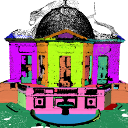
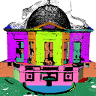
update image sizes

diff --git a/_includes/archive-single-pub.html b/_includes/archive-single-pub.html
@@ -23,7 +23,7 @@
 
       {% if post.teaser %}
           <div class="archive__column_image">
-          <img src="{{ post.teaser | prepend: "/images/" }}" width="128px">
+          <img src="{{ post.teaser | prepend: "/images/" }}" width="96px">
           </div>
       {% endif %}
 

diff --git a/_sass/_archive.scss b/_sass/_archive.scss
@@ -139,6 +139,7 @@
   .page__meta {
     margin: 0 0 4px;
   }
+  line-height: 1em;
 }
 
 

diff --git a/_pages/publications_per_type.md b/_pages/publications_per_type.md
@@ -33,6 +33,8 @@ author_profile: true
     {% endif %}
 {% endfor %}
 
+<hr/>
+
 ## Conferences <a name="conferences"></a> ([top](#top))
 {% for post in site.publications reversed %}
     {% if post.type == "conference" %}
@@ -40,12 +42,16 @@ author_profile: true
     {% endif %}
 {% endfor %}
 
+<hr/>
+
 ## Misc <a name="misc"></a> ([top](#top))
 {% for post in site.publications reversed %}
     {% if post.type == "misc" %}
         {% include archive-single-pub.html %}
     {% endif %}
 {% endfor %}
+
+<hr/>
 
 ## Communications <a name="communications"></a> ([top](#top))
 {% for post in site.publications reversed %}

diff --git a/_pages/publications_per_year.md b/_pages/publications_per_year.md
@@ -44,12 +44,11 @@ author_profile: true
 
 <div class="{{ include.type | default: "list" }}__item">
   <article class="archive__item" itemscope itemtype="http://schema.org/CreativeWork">
+    <hr/>
     <h2 class="archive__item-title" itemprop="headline">
         {{ next_year }} (<a href="#top">top</a>) </h2> 
   </article>
 </div>
-
-
         {% endif %}
     {% endif %}
 {% endfor %}

diff --git a/_pages/about.md b/_pages/about.md
@@ -1,14 +1,12 @@
 ---
 permalink: /
-title: "Alexandre Boulch"
+title: "About"
 excerpt: "About me"
 author_profile: true
 redirect_from:
   - /about/
   - /about.html
 ---
-
-## Current situation
 
 Researcher and Engineer in computer science at [ONERA](www.onera.fr), the French Aerospace Lab in the Modeling and Information Processing Department (DTIM) :
 
